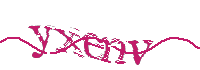
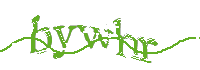
fix chars

Changed region(s): [[0.0, 0.2, 1.0, 0.9429], [0.0, 0.6286, 0.06, 0.7429]]

diff --git a/src/constants.ts b/src/constants.ts
@@ -26,12 +26,10 @@ export const FONTS = [
   [-100, -100, -100, -100, -100, -100, -100, -100, -100, -100, -100, -100, -100, -100, -100, -100, -100, -1, 13, 13, -2, 13, 13, 11, 11, 11, 13, -6, 11, 11, 11, 11, 11, 11, 11, 11, 13, -100, 3, 0, 0, 0, 0, 0, 0, 0, 0, 0, 0, 3, -4, 1, 0, 0, 0, 0, 0, 0, 0, 0, 1, -100, 7, 0, 0, 0, 0, 0, 0, 0, 0, 0, 0, 5, -4, 3, 0, 0, 0, 0, 0, 0, 0, 0, 9, -100, -2, 11, 5, 0, 0, 0, 0, 0, 0, 11, -6, 11, 0, 0, 0, 0, 1, 7, 13, -100, -4, 11, 0, 0, 0, 0, 0, -8, 9, 0, 0, 1, 13, -100, -5, 7, 0, 0, 0, 0, 13, -7, 9, 0, 0, 13, -100, -6, 1, 0, 0, 0, 9, -7, 5, 0, 5, -100, -6, 7, 0, 0, 0, 3, -7, 1, 0, 13, -100, -6, 13, 0, 0, 0, 0, 13, -5, 11, 0, 1, -100, -7, 5, 0, 0, 0, 7, -5, 7, 0, 7, -100, -7, 11, 0, 0, 0, 3, -5, 1, 0, 11, -100, -8, 1, 0, 0, 0, 13, -3, 13, 0, 3, -100, -8, 7, 0, 0, 0, 7, -3, 7, 0, 9, -100, -8, 13, 0, 0, 0, 3, -3, 1, 1, -100, -9, 5, 0, 0, 0, 13, -1, 9, 0, 7, -100, -9, 11, 0, 0, 0, 3, 13, 1, 0, 13, -100, -10, 1, 0, 0, 0, 0, 0, 3, -100, -10, 9, 0, 0, 0, 0, 0, 9, -100, -11, 1, 0, 0, 0, 1, -100, -11, 5, 0, 0, 0, 7, -100, -11, 9, 0, 0, 0, 13, -100, -11, 13, 0, 0, 3, -100, -12, 0, 0, 9, -100, -12, 0, 1, -100, -11, 13, 0, 7, -100, -11, 7, 0, 11, -100, -11, 1, 0, -100, -2, 7, 0, 1, 7, -4, 11, 0, 3, -100, -1, 11, 0, 0, 0, 0, 1, 9, 13, 11, 1, 0, 9, -100, -1, 3, 0, 0, 0, 0, 0, 0, 0, 0, 0, 3, -100, -1, 0, 0, 0, 0, 0, 0, 0, 0, 0, 1, 13, -100, -1, 7, 0, 0, 0, 0, 0, 0, 0, 1, 13, -100, -2, 9, 3, 0, 0, 1, 3, 7, -100, -101],
 ];
 
-export const LETTERS = "abcdafahijklmnopqrstuvwxyz";
+export const LETTERS = "abcdefghijklmnopqrstuvwxyz";
 
 export const WIDTH = 200;
 
 export const HEIGHT = 70;
-
-export const NDOTS = 100;
 
 export const SW = [0, 4, 8, 12, 16, 20, 23, 27, 31, 35, 39, 43, 47, 50, 54, 58, 61, 65, 68, 71, 75, 78, 81, 84, 87, 90, 93, 96, 98, 101, 103, 105, 108, 110, 112, 114, 115, 117, 119, 120, 121, 122, 123, 124, 125, 126, 126, 127, 127, 127, 127, 127, 127, 127, 126, 126, 125, 124, 123, 122, 121, 120, 119, 117, 115, 114, 112, 110, 108, 105, 103, 101, 98, 96, 93, 90, 87, 84, 81, 78, 75, 71, 68, 65, 61, 58, 54, 50, 47, 43, 39, 35, 31, 27, 23, 20, 16, 12, 8, 4, 0, -4, -8, -12, -16, -20, -23, -27, -31, -35, -39, -43, -47, -50, -54, -58, -61, -65, -68, -71, -75, -78, -81, -84, -87, -90, -93, -96, -98, -101, -103, -105, -108, -110, -112, -114, -115, -117, -119, -120, -121, -122, -123, -124, -125, -126, -126, -127, -127, -127, -127, -127, -127, -127, -126, -126, -125, -124, -123, -122, -121, -120, -119, -117, -115, -114, -112, -110, -108, -105, -103, -101, -98, -96, -93, -90, -87, -84, -81, -78, -75, -71, -68, -65, -61, -58, -54, -50, -47, -43, -39, -35, -31, -27, -23, -20, -16, -12, -8, -4];

diff --git a/src/index.ts b/src/index.ts
@@ -1,6 +1,6 @@
 import { randomBytes } from "crypto";
 import { PNG } from "pngjs";
-import { WIDTH, HEIGHT, FONTS, LETTERS, SW, NDOTS } from "./constants";
+import { WIDTH, HEIGHT, FONTS, LETTERS, SW } from "./constants";
 import * as effects from "./effects";
 
 export interface Options {
@@ -8,6 +8,7 @@ export interface Options {
   useLine?: boolean;
   useBlur?: boolean;
   useHollow?: boolean;
+  dots?: number;
   fgColor?: number[]
   bgColor?: number[]
 }
@@ -17,6 +18,7 @@ const defaultOptions: Options = {
   useLine: true,
   useBlur: false,
   useHollow: false,
+  dots: 100,
 };
 
 export interface CaptchaData {
@@ -98,13 +100,13 @@ async function createImage(options: Options) {
   let p = 30;
 
   for (let n = 0; n < size; n++) {
-    text[n] %= 25;
+    text[n] %= LETTERS.length - 1;
     p = letter(text[n], p, image, swr, s1, s2);
     text[n] = LETTERS.charCodeAt(text[n]);
   }
 
   effects.line(image, swr, s1);
-  effects.dots(image, dr, NDOTS);
+  effects.dots(image, dr, options.dots);
   if (options.useBlur) effects.blur(image);
   if (options.useHollow) effects.hollow(image);
 
